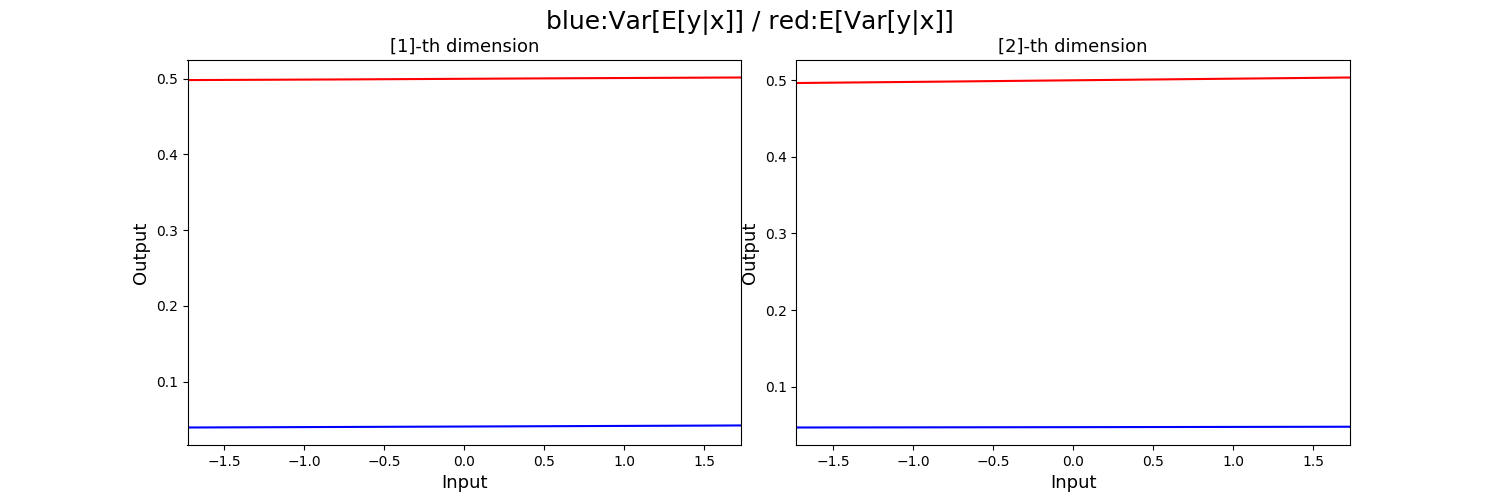
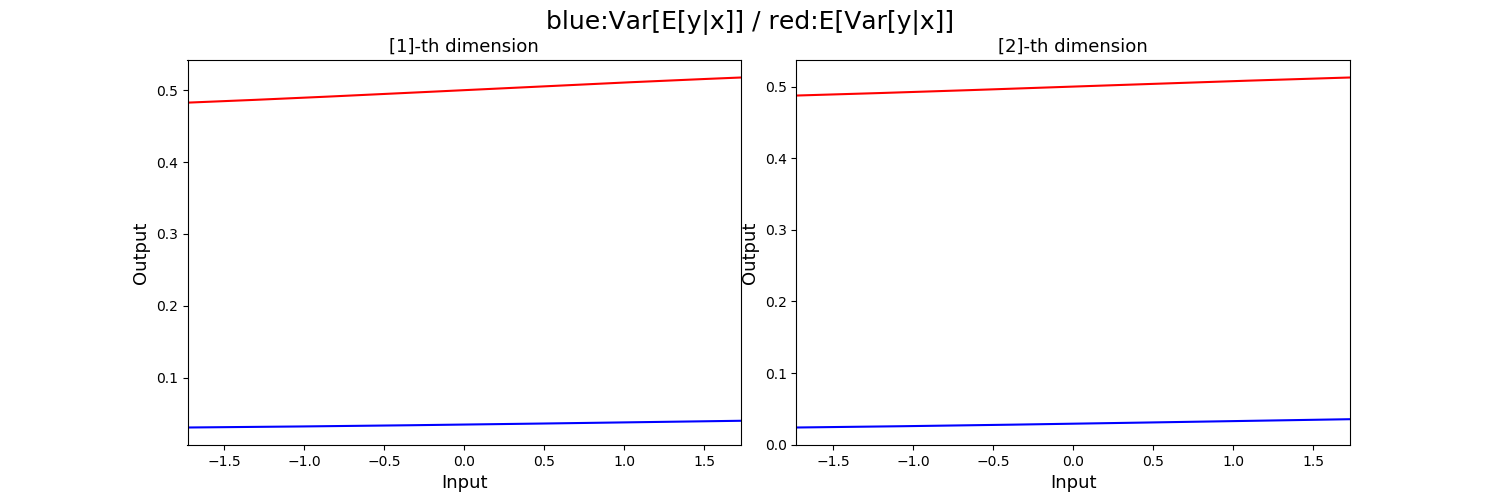
edit

diff --git a/subclass_model.py b/subclass_model.py
@@ -140,15 +140,16 @@ class MDN_reg_class(Model):
             if _x_train is not None:
                 plt.plot(_x_train[:, 0], _y_train[:, i], 'k.')
             plt.plot(_x_test[:, 0], y_sample[:, i], 'rx')  # plot samples per each dimension
-            for j in range(self.k):  # per each mixture, plot variance
-                idx = np.where(phi[:, j] < _pi_th)[0]
-                # plt.fill_between(_x_test[idx, 0], mu[idx, i, j] - 2 * np.sqrt(var[idx, i, j]),
-                #              mu[idx, i, j] + 2 * np.sqrt(var[idx, i, j]),
-                #              facecolor='k', interpolate=True, alpha=0.05)
-                idx = np.where(phi[:, j] > _pi_th)[0]
-                plt.fill_between(_x_test[idx, 0], mu[idx, i, j] - 2 * np.sqrt(var[idx, i, j]),
-                             mu[idx, i, j] + 2 * np.sqrt(var[idx, i, j]),
-                             facecolor=colors[j], interpolate=True, alpha=0.3)
+            # for j in range(self.k):  # per each mixture, plot variance
+            #     idx = np.where(phi[:, j] < _pi_th)[0]
+            #     if idx:
+            #         plt.fill_between(_x_test[idx, 0], mu[idx, i, j] - 2 * np.sqrt(var[idx, i, j]),
+            #                      mu[idx, i, j] + 2 * np.sqrt(var[idx, i, j]),
+            #                      facecolor='k', interpolate=True, alpha=0.05)
+            #     idx = np.where(phi[:, j] > _pi_th)[0]
+            #     plt.fill_between(_x_test[idx, 0], mu[idx, i, j] - 2 * np.sqrt(var[idx, i, j]),
+            #                  mu[idx, i, j] + 2 * np.sqrt(var[idx, i, j]),
+            #                  facecolor=colors[j], interpolate=True, alpha=0.3)
             for j in range(self.k):  # per each mixture, plot mu
                 idx = np.where(phi[:, j] > _pi_th)[0]
                 plt.plot(_x_test[:, 0], mu[:, i, j], '-', color=[0.8, 0.8, 0.8], linewidth=1)

diff --git a/demo_mdn.py b/demo_mdn.py
@@ -13,6 +13,7 @@ import argparse
 parser = argparse.ArgumentParser()
 parser.add_argument('-batch_size', type=int, default=256)
 parser.add_argument('-lr', type=float, default=0.001, help='learning rate')
+parser.add_argument('-k', type=int, default=20, help='learning rate')
 parser.add_argument('-num_epoch', type=int, default=20000)
 parser.add_argument('-activation', type=str, default='tanh')
 parser.add_argument('-optimizer', type=str, default='rmsp')
